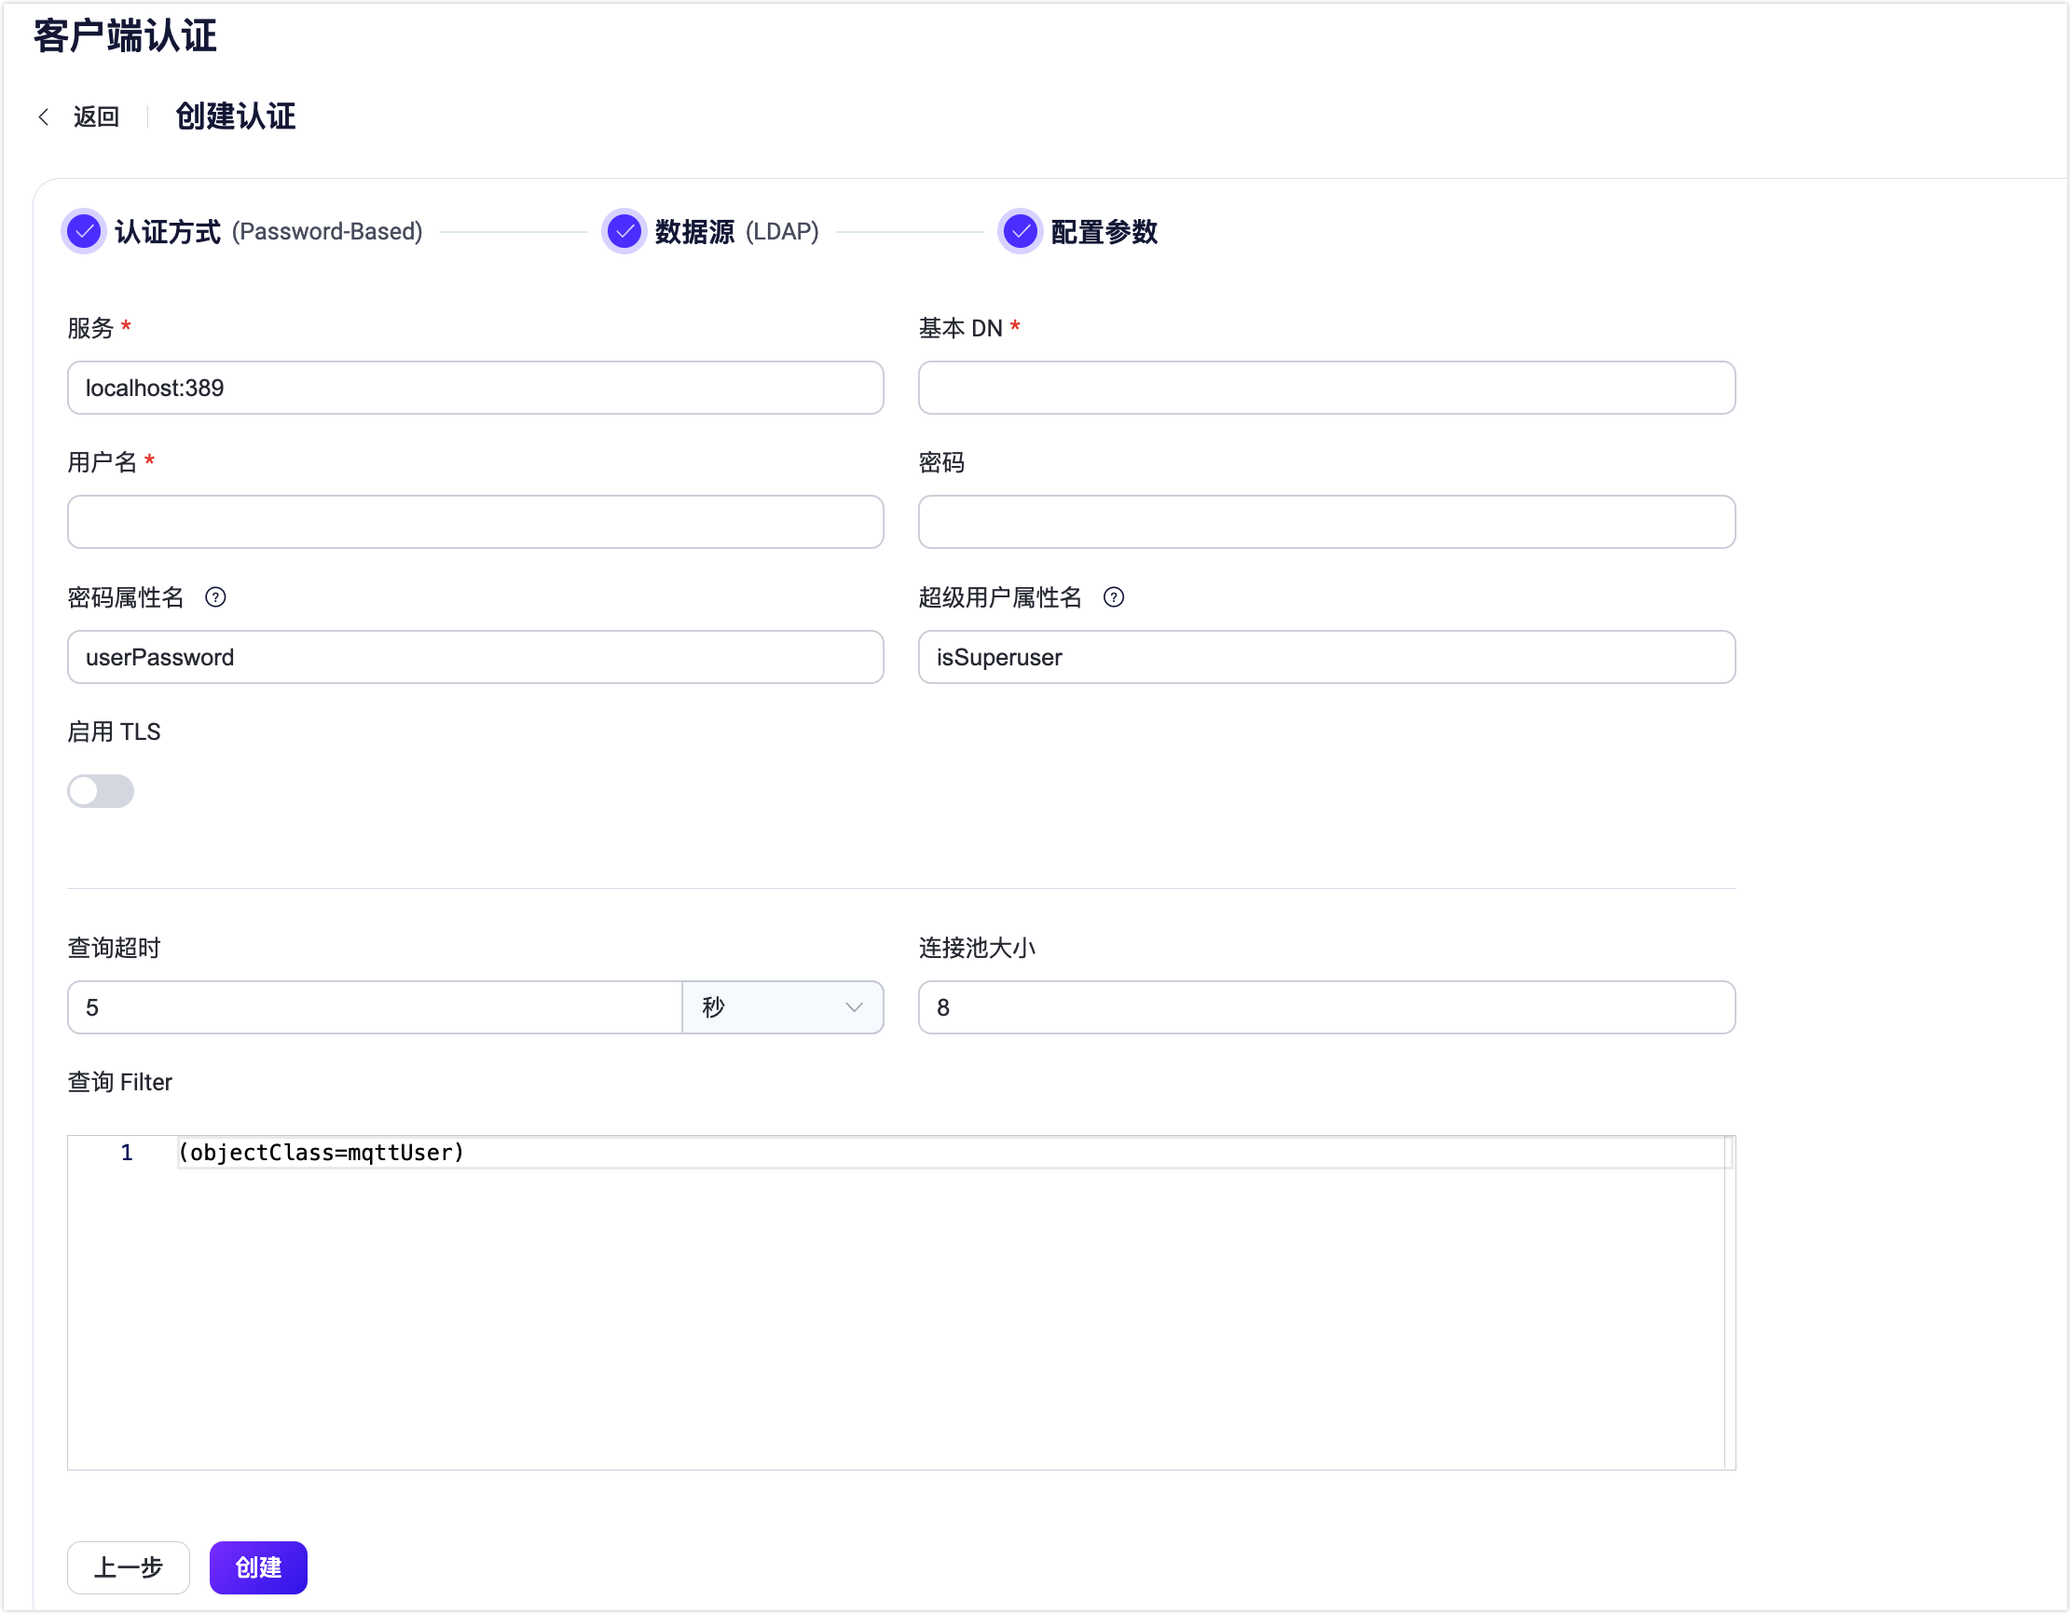
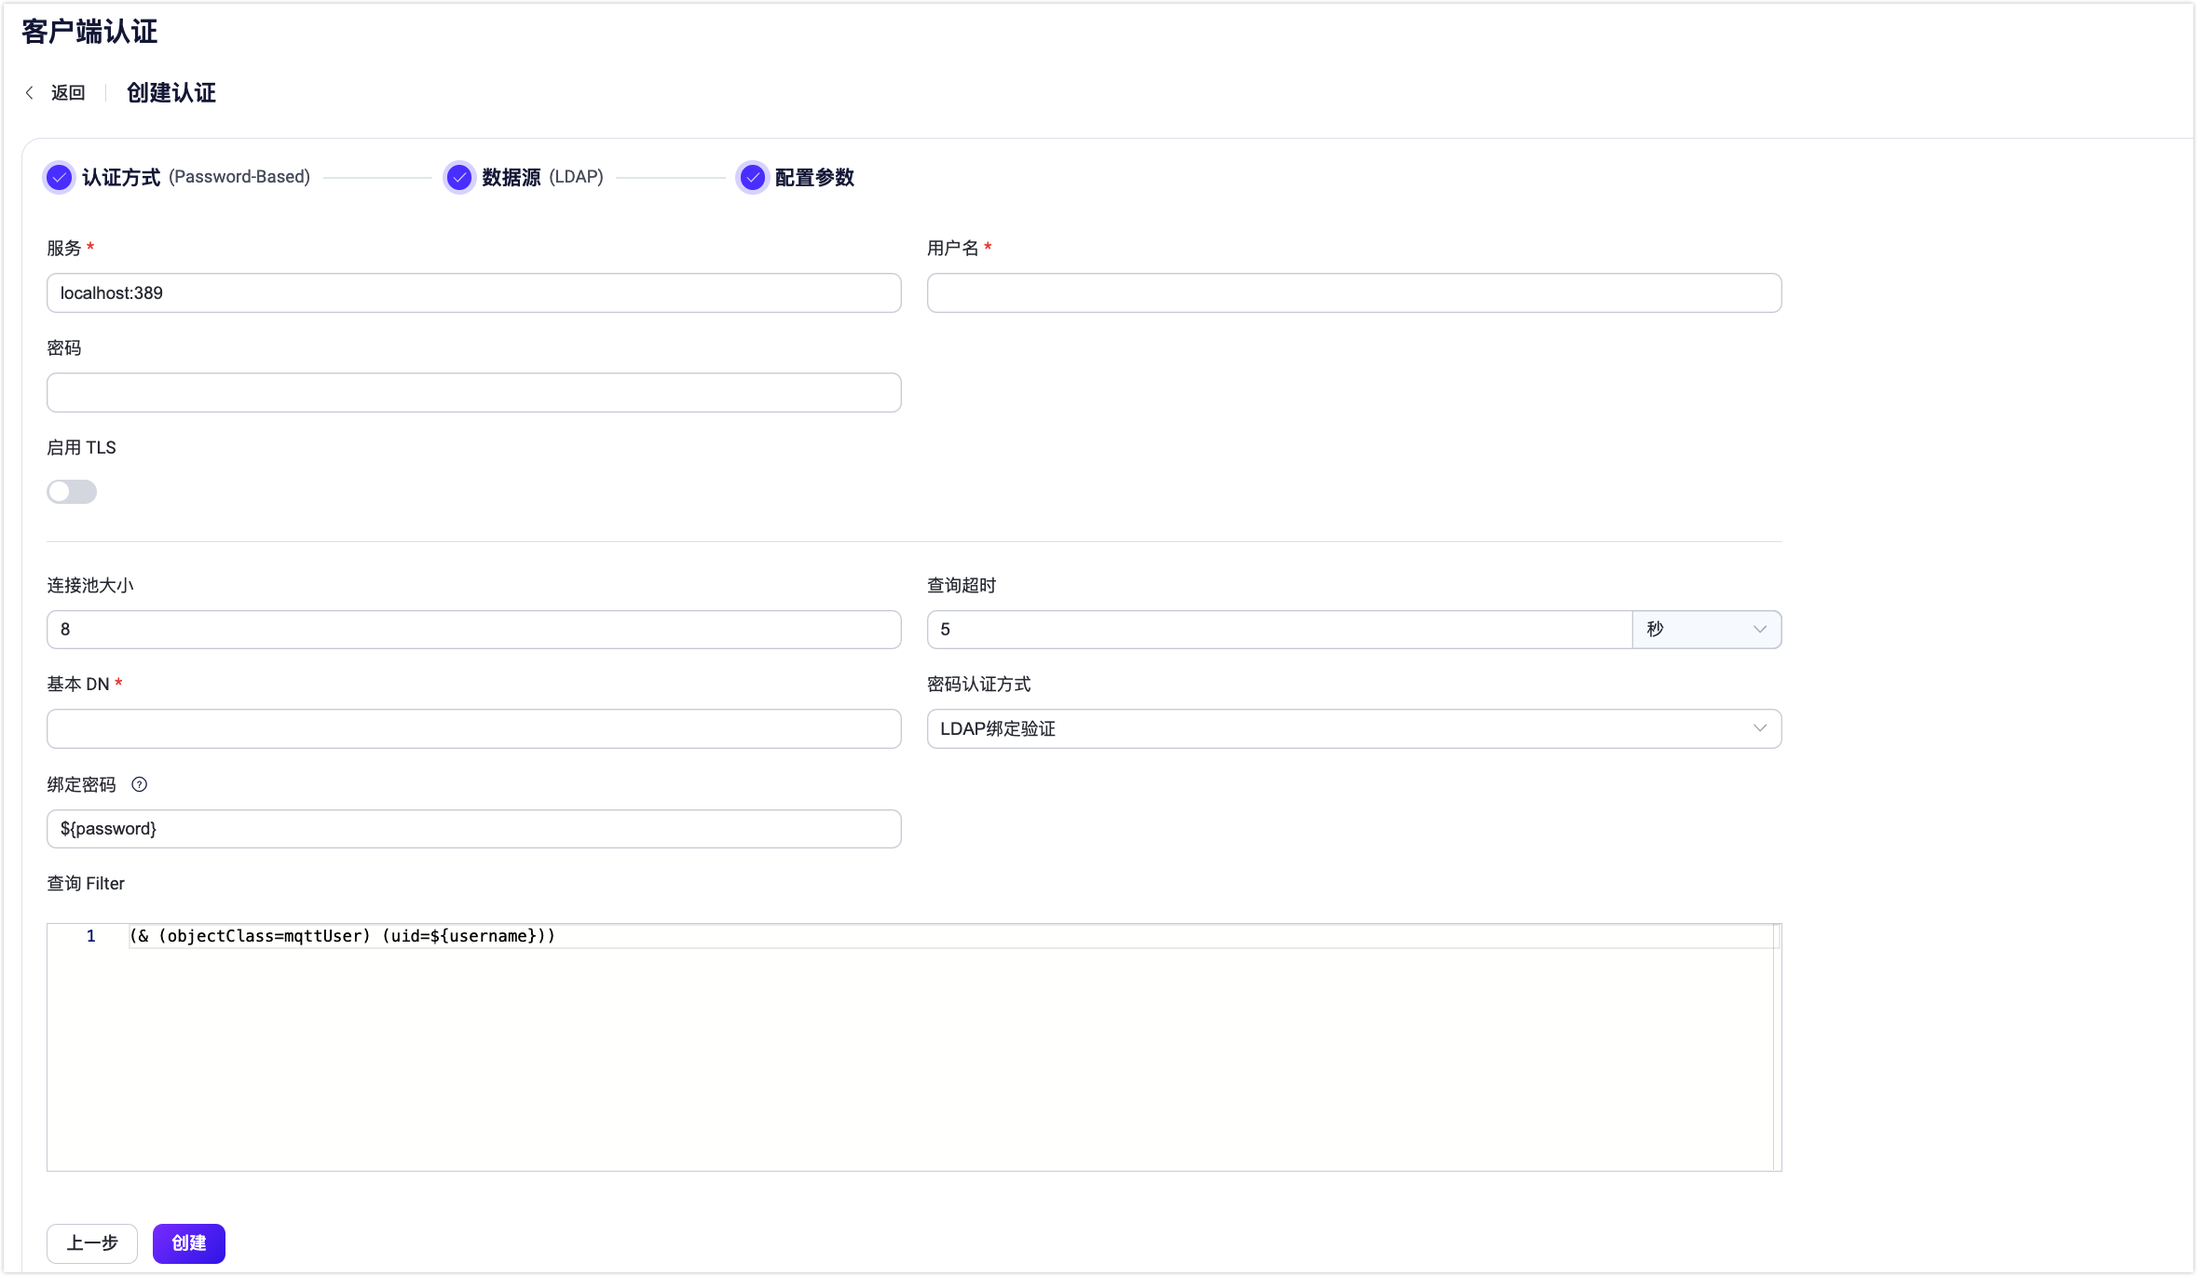
Editorial updates

diff --git a/en_US/access-control/authn/ldap.md b/en_US/access-control/authn/ldap.md
@@ -8,27 +8,26 @@
 
 :::
 
-## Authentication Methods
+## Password Authentication Methods
 
-There are two different authentication methods in this feature:
-- Local Password Comparison
+EMQX's LDAP integration includes two distinct authentication methods:
+- **Local Password Comparison**
 
-   EMQX queries LDAP to retrieve the client's password and then compares it locally.
-   This method is more flexible and supports more features such as the `isSuperUser` flag, but it requires the user have permission to setup the schema and data into the LDAP server.
+   EMQX queries LDAP to retrieve the client's password and then compares the retrieved password with the password information stored locally in EMQX. This method allows EMQX to have greater flexibility and capability when performing LDAP user authentication, supporting more complex validation logic and security strategies, and handling additional user attributes. For example, EMQX can retrieve the user's `isSuperUser` flag while querying the user's password, which means EMQX can determine whether the user has superuser privileges while authenticating, thereby providing different levels of access and operational capabilities based on the user's permission level. However, this approach requires users to have the necessary permissions to configure schemas and data on the LDAP server.
+   
+- **LDAP Bind Authentication**
 
-- LDAP Bind Authentication
+  EMQX directly uses LDAP binding to authenticate usernames and passwords. This method provides basic authentication solely through the LDAP `BIND` operation, involving only the use of existing usernames and passwords, without engaging in complex queries or data processing. Therefore, this approach is suitable for situations where users already have account data on the LDAP server or lack the permissions to add or modify data.
 
-  EMQX directly uses LDAP binding to authenticate the username and password.
-
-  This method only provides basic authentication through the LDAP `BIND` operation and is suitable for situations where the user already has account data in the LDAP server or does not have permission to add data.
-
-## Data Schema and Query
+## LDAP Data Schema and Query
 
 ::: tip
 
-Please skip this section if using the `LDAP Bind Authentication` method.
+This section applies to the "Local Password Comparison" authentication method. If you are using the "LDAP Bind Authentication" method, you can bypass this section.
 
 :::
+
+This section describes how to configure LDAP schema, create LDAP credentials, and store the credentials for password authentication.
 
 An LDAP schema defines the structure and rules for organizing and storing authentication data within an LDAP directory. The LDAP authenticator supports almost all LDAP schema. Here is an example schema for OpenLDAP:
 
@@ -128,15 +127,15 @@ rootpw {SSHA}eoF7NhNrejVYYyGHqnt+MdKNBh4r1w3W
 directory       /usr/local/etc/openldap/data
 ```
 
-## Configure with Dashboard
+## Configure LDAP Authentication via Dashboard
 
-You can use EMQX Dashboard to configure how to use LDAP for password authentication.
+You can configure how to use LDAP for password authentication in the EMQX Dashboard.
 
-On [EMQX Dashboard](http://127.0.0.1:18083/#/authentication), click **Access Control** -> **Authentication** on the left navigation menu to enter the **Authentication** page. Click **Create** at the top right corner, then click to select **Password-Based** as **Mechanism**, and **LDAP** as **Backend**, this will lead us to the **Configuration** tab, as shown below.
+Go to EMQX Dashboard, and click **Access Control** -> **Authentication** on the left navigation menu to enter the **Authentication** page. Click **Create** at the top right corner, then click to select **Password-Based** as **Mechanism**, and **LDAP** as **Backend**, this will lead us to the **Configuration** tab, as shown below.
 
-<img src="./assets/authn-ldap.png" alt="authn-ldap" style="zoom:67%;" />
+<img src="./assets/authn-ldap.png" alt="authn-ldap"  />
 
-Follow the instruction below on how to configure:
+Follow the instructions below for the configuration:
 
 **Connect**: Fill in the information needed to connect to the LDAP server.
 
@@ -148,10 +147,10 @@ Follow the instruction below on how to configure:
 
 **Connection Configuration**: Set the concurrent connections and waiting time before a connection is timed out.
 
-- **Pool size** (optional): Input an integer value to define the number of concurrent connections from an EMQX node to LDAP. Default: `8`.
+- **Connection Pool size** (optional): Input an integer value to define the number of concurrent connections from an EMQX node to LDAP. Default: `8`.
 - **Query Timeout** (optional): Specify the waiting period before EMQX assumes the query is timed out. Units supported include milliseconds, second, minute, and hour.
 
-**Authentication configuration**: Fill in the authentication-related settings:
+**Authentication configuration**: Fill in the authentication-related settings.
 
 - **Base DN**: The name of the base object entry (or possibly the root) relative to which the search is to be performed. For more information, see [RFC 4511 Search Request](https://datatracker.ietf.org/doc/html/rfc4511#section-4.5.1), the placeholders are supported.
 
@@ -161,24 +160,26 @@ Follow the instruction below on how to configure:
 
   :::
 
-- **Password Authentication Method**: Choose the authentication method
+- **Password Authentication Method**: Select the authentication method: `LDAP Bind Authentication` (default) or `Local Password Comparison`.
 
-- **Filter**: Filter for the LDAP query, defines the conditions that must be fulfilled in order for the search to match a given entry.
+- **Bind Password**: Specifies the password that EMQX uses to authenticate itself to the LDAP server before it can perform any operations or queries. It is referenced through a placeholder `${password}` that will be resolved at runtime with the actual password defined in the configuration option **Password**.
+
+- **Password Hash Attribute**: Specifies the attribute representing the user's password, applicable when `Local Password Comparison` is selected as the authentication method. The value of this attribute should follow [RFC 3112](#https://datatracker.ietf.org/doc/html/rfc3112), the supported algorithm is `md5` `sha` `sha256` `sha384` `sha512` and `ssha`.
+
+- **Is Superuser Attribute**: Identifies the attribute that indicates whether a user is a superuser, applicable when `Local Password Comparison` is selected as the authentication method.  The value of this attribute should be in boolean, if absent is equal to `false`.
+
+- **Filter**: Defines the criteria for the LDAP query. The filter sets conditions that an entry must meet to be considered a match.
   The syntax of the filter follows [RFC 4515](#https://www.rfc-editor.org/rfc/rfc4515) and also supports placeholders.
-
-- **Password Hash Attribute**: Indicates which attribute is used to represent the user's password. The value of this attribute should follow [RFC 3112](#https://datatracker.ietf.org/doc/html/rfc3112), the supported algorithm is `md5` `sha` `sha256` `sha384` `sha512` and `ssha`.
-
-- **Is Superuser Attribute**: Indicates which attribute is used to represent whether the user is a superuser. The value of this attribute should be in boolean, if absent is equal to `false`.
 
 After you finish the settings, click **Create**.
 
-## Configure with Configuration Items
+## Configure LDAP Authentication via Configuration Items
 
 You can configure the EMQX LDAP authenticator with EMQX configuration items.<!--插入超链接-->
 
 LDAP authentication is identified with `mechanism = password_based` and `backend = ldap`.
 
-Sample configuration for the **Local Password Comparison**:
+Below is a sample configuration for the **Local Password Comparison** method:
 
 ```bash
 {
@@ -199,7 +200,7 @@ Sample configuration for the **Local Password Comparison**:
 }
 ```
 
-Sample configuration for the **LDAP Bind Authentication**:
+Below is a sample configuration for the **LDAP Bind Authentication** method:
 
 ```bash
 {
@@ -218,3 +219,4 @@ Sample configuration for the **LDAP Bind Authentication**:
   filter = "(objectClass=mqttUser)"
 }
 ```
+

diff --git a/zh_CN/access-control/authn/ldap.md b/zh_CN/access-control/authn/ldap.md
@@ -8,7 +8,27 @@
 
 :::
 
-## 数据结构与查询
+## 密码认证方式
+
+EMQX 的 LDAP 集成包括两种不同的密码认证方式：
+
+- **本地密码比对**
+
+  EMQX 查询 LDAP 以检索客户端的密码，并将检索到的密码与 EMQX 本地存储的密码信息进行比较。 这种方法允许 EMQX 在执行 LDAP 用户认证时，具有更高的灵活性和能力，支持更复杂的验证逻辑和安全策略，并能够处理额外的用户属性。例如，EMQX 可以在查询用户密码的同时检索用户的 `isSuperUser` 标志。这意味着在进行认证的同时，EMQX 能够确定用户是否具有超级用户的特权，从而根据用户的权限级别提供不同的访问和操作能力。然而，这种方式要求用户具有在 LDAP 服务器上配置数据结构和认证数据的必要权限。
+
+- **LDAP 绑定验证**
+
+  EMQX 直接使用 LDAP 绑定来认证用户名和密码。这种方法仅通过 LDAP 的 `BIND` 操作提供基本认证，只涉及到使用已存在的用户名和密码进行认证，而不涉及到复杂的查询或数据处理，因此这种方式适用于用户已经在 LDAP 服务器上拥有账户数据或缺乏添加或修改数据权限的情况。
+
+## LDAP 数据结构与查询
+
+::: tip
+
+本节内容仅适用于使用"本地密码比对"的认证方式。如果您使用的是 “LDAP 绑定验证“方式，请跳过。
+
+:::
+
+本节介绍了如何配置 LDAP 数据结构、创建并存储认证数据以用于密码验证。
 
 LDAP 数据结构定义了在 LDAP 目录中组织和存储认证数据的结构和规则。LDAP 认证器支持几乎所任何 LDAP 数据结构。 以下是用于 [OpenLDAP](https://www.openldap.org/) 的数据结构示例：
 
@@ -105,7 +125,7 @@ rootpw {SSHA}eoF7NhNrejVYYyGHqnt+MdKNBh4r1w3W
 directory       /usr/local/etc/openldap/data
 ```
 
-## 通过 Dashboard 配置
+## 通过 Dashboard 配置 LDAP 认证
 
 您可以使用 EMQX Dashboard 配置如何使用 LDAP 进行密码认证。
 
@@ -138,29 +158,56 @@ directory       /usr/local/etc/openldap/data
 
   :::
 
+- **密码认证方式**：选择认证方式：`LDAP 绑定验证`（默认）或 `本地密码比对`。
+
+- **绑定密码**：指定 EMQX 用于向 LDAP 服务器认证自身的密码，在执行任何操作或查询之前必须进行此认证。它通过占位符 `${password}` 引用，在运行时将使用配置选项 **密码** 中定义的实际密码来解析。
+
+- **密码属性名**：当选择 `本地密码比对` 作为认证方法时，指定代表用户密码的属性。此属性的值应遵循 [RFC 3112](https://datatracker.ietf.org/doc/html/rfc3112)，支持的算法有 `md5` `sha` `sha256` `sha384` `sha512`和`ssha`。
+
+- **超级用户属性名**：当选择 `本地密码比对` 作为认证方法时，用来标识用户是否为超级用户的 LDAP 属性名称。此属性的值应为布尔值，如果缺失则等于 `false`。
+
 - **查询 Filter**：LDAP 查询筛选器，定义搜索匹配给定条目必须满足的条件。 过滤器的语法遵循 [RFC 4515](https://www.rfc-editor.org/rfc/rfc4515)，也支持占位符。
-
-- **密码属性名**：指示用于表示客户端密码的属性。此属性的值应遵循 [RFC 3112](https://datatracker.ietf.org/doc/html/rfc3112)，支持的算法有 `md5` `sha` `sha256` `sha384` `sha512`和`ssha`。
-
-- **超级用户属性名**：指示客户端超级用户角色的 LDAP 属性名称。此属性的值应为布尔值，如果缺失则等于 `false`。
 
 在完成设置后，点击**创建**。
 
-## 通过配置文件配置
+## 通过配置文件配置 LDAP 认证
 
 您也可通过配置文件配置 LDAP 认证器。
 
 LDAP 认证通过 `mechanism = password_based` 和 `backend = ldap` 进行标识。
 
-配置示例：
+以下是使用 **本地密码比对** 方式的一个示例配置：
 
 ```bash
 {
   backend = "ldap"
   mechanism = "password_based"
+  method {
+    type = hash
+    password_attribute = "userPassword"
+    is_superuser_attribute = "isSuperuser"
+  }
   server = "127.0.0.1:389"
-  password_attribute = "userPassword"
-  is_superuser_attribute = "isSuperuser"
+  query_timeout = "5s"
+  username = "root"
+  password = "root password"
+  pool_size = 8
+  base_dn = "uid=${username},ou=testdevice,dc=emqx,dc=io"
+  filter = "(objectClass=mqttUser)"
+}
+```
+
+以下是使用 **LDAP 绑定验证** 方式的一个示例配置：
+
+```bash
+{
+  backend = "ldap"
+  mechanism = "password_based"
+  method {
+    type = bind
+    bind_password = "${password}"
+  }
+  server = "127.0.0.1:389"
   query_timeout = "5s"
   username = "root"
   password = "root password"

diff --git a/zh_CN/access-control/authz/ldap.md b/zh_CN/access-control/authz/ldap.md
@@ -8,7 +8,7 @@
 
 :::
 
-## 数据结构与查询
+## LDAP 数据结构与查询
 
 LDAP 授权器根据存储在 LDAP 目录中的授权数据检查客户端授权。LDAP 数据格式定义了组织和存储授权数据的结构和规则。LDAP 授权器支持几乎任何 LDAP 数据结构。以下是 OpenLDAP 的一个数据格式示例：
 
@@ -111,13 +111,13 @@ rootpw {SSHA}eoF7NhNrejVYYyGHqnt+MdKNBh4r1w3W
 directory       /usr/local/etc/openldap/data
 ```
 
-## 通过 Dashboard 配置
+## 通过 Dashboard 配置 LDAP 授权器
 
 您可以使用 EMQX Dashboard 配置如何使用 LDAP 进行授权。
 
 1. 在 EMQX Dashboard 页面上点击左侧导航栏的**访问控制** -> **客户端授权**，进入**客户端授权**页面。
 
-2. 单击**+ 创建**，选择 **LDAP** 作为 **数据源**。点击**下一步**进入**配置参数**页签：
+2. 单击**创建**，选择 **LDAP** 作为 **数据源**。点击**下一步**进入**配置参数**页签：
 
    <img src="./assets/authz-ldap.png" alt="authz-ldap" style="zoom:90%;" />
 
@@ -154,7 +154,7 @@ directory       /usr/local/etc/openldap/data
 
 4. 点击**创建**完成设置。
 
-## 通过配置文件配置
+## 通过配置文件配置 LDAP 授权器
 
 您也可通过配置文件配置 LDAP 授权器。
 

diff --git a/en_US/access-control/authz/ldap.md b/en_US/access-control/authz/ldap.md
@@ -8,7 +8,7 @@
 
 :::
 
-## Data Schema and Query
+## LDAP Data Schema and Query
 
 The LDAP authorizer checks the client authorization against the authorization data stored within the LDAP directory. An LDAP schema defines the structure and rules for organizing and storing the authorization data. The LDAP authorizer supports almost any storage schema. Here is a schema example for OpenLDAP:
 
@@ -111,7 +111,7 @@ rootpw {SSHA}eoF7NhNrejVYYyGHqnt+MdKNBh4r1w3W
 directory       /usr/local/etc/openldap/data
 ```
 
-## Configure with Dashboard
+## Configure LDAP Authorizer via Dashboard
 
 You can use EMQX Dashboard to configure how to use LDAP for user authorization.
 
@@ -157,7 +157,7 @@ You can use EMQX Dashboard to configure how to use LDAP for user authorization.
 
 4. Click **Create** to finish the settings.
 
-## Configure with Configuration Items
+## Configure LDAP Authorizer via Configuration Items
 
 You can configure the EMQX LDAP authorizer with EMQX configuration items.
 
